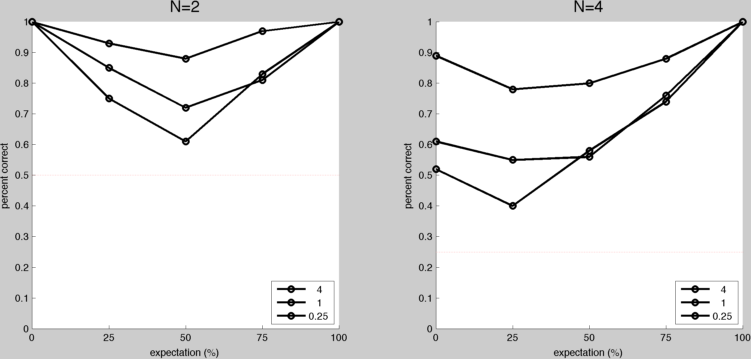
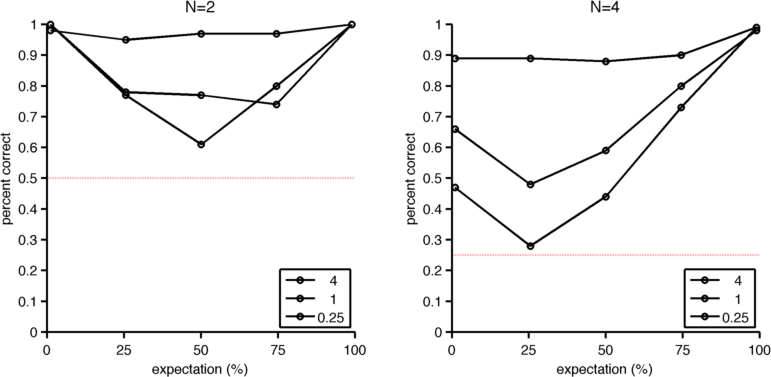
reformulated cued localisation model

diff --git a/code/MCMCcuedLocalisation.m b/code/MCMCcuedLocalisation.m
@@ -20,7 +20,7 @@ params.uniformdist      = ones(N,1)./N; % uniform distribution
 % params.dirchprior = ones(N,1);
 
 % for generating the data, we specify the distribution from which L is sampled from
-params.pdist			= ones(N,1)./N; 
+%params.pdist			= ones(N,1)./N;
 % create uninformative prior for dirichlet distribution
 % params.dirchprior 		= ones(N,1);
 
@@ -32,22 +32,22 @@ params.pdist			= ones(N,1)./N;
 
 % Set initial values for latent variable in each chain
 for i=1:mcmcparams.generate.nchains
-	%initial_param(i).L			= randi(params.N);
-	
-		% The guess initial parameter value for L cannot equal a location who's
-	% spatial prior is equal to zero, otherwise we get an error message
-	% from JAGS.
-
-	initial_param(i).L = round( ( rand*(N-1)) +1);
-	
-% 	done=0;
-%  	while done~=1
-% 		tempLocation = round( ( rand*(N-1)) +1);
-%  		if params.v(tempLocation) ~=0
-%  			initial_param(i).L = tempLocation;
-%  			done=1;
-% 		end	
-%  	end
+    %initial_param(i).L			= randi(params.N);
+    
+    % The guess initial parameter value for L cannot equal a location who's
+    % spatial prior is equal to zero, otherwise we get an error message
+    % from JAGS.
+    
+    initial_param(i).L = round( ( rand*(N-1)) +1);
+    
+    % 	done=0;
+    %  	while done~=1
+    % 		tempLocation = round( ( rand*(N-1)) +1);
+    %  		if params.v(tempLocation) ~=0
+    %  			initial_param(i).L = tempLocation;
+    %  			done=1;
+    % 		end
+    %  	end
 end
 
 %%
@@ -55,20 +55,20 @@ end
 %fprintf( 'Running JAGS...\n' );
 %tic
 [dataset, stats, structArray] = matjags( ...
-    params, ...                 
-    fullfile(pwd, JAGSmodel), ...   
-    initial_param, ...                     
-    'doparallel' , mcmcparams.doparallel, ...      
-    'nchains', mcmcparams.generate.nchains,...              
-    'nburnin', mcmcparams.generate.nburnin,...             
-    'nsamples', mcmcparams.generate.nsamples, ...           
-    'thin', 1, ...                      
-    'monitorparams', {'c','L','x','pdist'}, ...    
-    'savejagsoutput' , 0 , ...   
-    'verbosity' , 0 , ...              
+    params, ...
+    fullfile(pwd, JAGSmodel), ...
+    initial_param, ...
+    'doparallel' , mcmcparams.doparallel, ...
+    'nchains', mcmcparams.generate.nchains,...
+    'nburnin', mcmcparams.generate.nburnin,...
+    'nsamples', mcmcparams.generate.nsamples, ...
+    'thin', 1, ...
+    'monitorparams', {'c','L','x'}, ...
+    'savejagsoutput' , 0 , ...
+    'verbosity' , 0 , ...
     'cleanup' , 1 ,...
     'rndseed',1,...
-	'dic',0);                    
+    'dic',0);
 
 
 clear initial_param
@@ -89,13 +89,13 @@ true_location = squeeze(dataset.L);
 %% STEP 2: INFER THE TRIAL TYPE GIVEN THE SENSORY OBSERVATIONS
 % Now do inference on ALL the generated data
 
-% now we MAY OR MAY NOT want to remove knowledge that L is sampled from a uniform distribution over each location (pdist=[1/N ... 1/N]) 
+% now we MAY OR MAY NOT want to remove knowledge that L is sampled from a uniform distribution over each location (pdist=[1/N ... 1/N])
 %params = rmfield(params, 'pdist')
 
 %%
 % update some of the parameters
 params.x		= squeeze(dataset.x)';
-params.T		= TRIALS; 
+params.T		= TRIALS;
 params.c		= squeeze(dataset.c)';
 
 %%
@@ -108,64 +108,73 @@ params.c		= squeeze(dataset.c)';
 % for i=1:mcmcparams.infer.nchains
 % 	initial_param(i).L			= randi(params.N, TRIALS,1);
 % end
-for i=1:mcmcparams.infer.nchains
-	%initial_param(i).L			= randi(params.N, TRIALS,1);
-	for t=1:TRIALS
-		
-		%initial_param(i).L(t) = round( ( rand*(N-1)) +1);
-		
-		% We need the initial parameter guess for L to NOT be in a location
-		% where the target cannot be. For example, if the cue validity is
-		% zero and the cue is observed in location 1, then we need the
-		% initial guess of L to be anything other than 1.
-		
-		% L
-		done=0;
-		while done~=1
-			% calculate cue distribution
-			cue_dist=ones(N,1)* (1-cue_validity)/(N-1);
-			cue_dist(params.c(t)) = cue_validity;
-			
-			tempLocation = round( (rand*(params.N-1)) +1);
-			if cue_dist(tempLocation) ~=0
-				initial_param(i).L(t) = tempLocation;
-				done=1;
-			end
-		end
-% 		
-% 		% c
-% 		done=0;
-% 		while done~=1
-% 			tempLocation = round( (rand*(params.N-1)) +1);
-% 			if params.pdist(tempLocation) ~=1
-% 				initial_param(i).c(t) = tempLocation;
-% 				done=1;
-% 			end
-% 		end
-		
-		%initial_param(i).L(t) = round( (rand*(params.N-1)) +1);
 
-	end
+for i=1:mcmcparams.infer.nchains
+    initial_param(i).L			= randi(params.N, TRIALS,1);
 end
+    
+% for i=1:mcmcparams.infer.nchains
+%     initial_param(i)=0;
+%     %initial_param(i).L			= randi(params.N, TRIALS,1);
+% %     for t=1:TRIALS
+% %         for n=1:N
+% %             initial_param(i).x(n,t) = [];
+% %         end
+% %         
+% %         % 		%initial_param(i).L(t) = round( ( rand*(N-1)) +1);
+% %         %
+% %         % 		% We need the initial parameter guess for L to NOT be in a location
+% %         % 		% where the target cannot be. For example, if the cue validity is
+% %         % 		% zero and the cue is observed in location 1, then we need the
+% %         % 		% initial guess of L to be anything other than 1.
+% %         %
+% %         % 		% L
+% %         % 		done=0;
+% %         % 		while done~=1
+% %         % % 			% calculate cue distribution
+% %         % % 			cue_dist=ones(N,1)* (1-cue_validity)/(N-1);
+% %         % % 			cue_dist(params.c(t)) = cue_validity;
+% %         %
+% %         % 			tempLocation = round( (rand*(params.N-1)) +1);
+% %         % 			if cue_dist(tempLocation) ~=0
+% %         % 				initial_param(i).L(t) = tempLocation;
+% %         % 				done=1;
+% %         % 			end
+% %         % 		end
+% %         % %
+% %         % % 		% c
+% %         % % 		done=0;
+% %         % % 		while done~=1
+% %         % % 			tempLocation = round( (rand*(params.N-1)) +1);
+% %         % % 			if params.pdist(tempLocation) ~=1
+% %         % % 				initial_param(i).c(t) = tempLocation;
+% %         % % 				done=1;
+% %         % % 			end
+% %         % % 		end
+% %         %
+% %         % 		%initial_param(i).L(t) = round( (rand*(params.N-1)) +1);
+% %         
+% %     end
+% end
 
 %%
 % Calling JAGS to sample
 %fprintf( 'Running JAGS...\n' );
 %tic
 [samples, stats, structArray] = matjags( ...
-    params, ...                       
-    fullfile(pwd, JAGSmodel), ...    
-    initial_param, ...                          
-    'doparallel' , mcmcparams.doparallel, ...      
-    'nchains', mcmcparams.infer.nchains,...             
-    'nburnin', mcmcparams.infer.nburnin,...             
-    'nsamples', mcmcparams.infer.nsamples, ...           
-    'thin', 1, ...                      
-    'monitorparams', {'L','pdist'}, ...  
-    'savejagsoutput' , 0 , ... 
-    'verbosity' , 0 , ... 
+    params, ...
+    fullfile(pwd, JAGSmodel), ...
+    initial_param, ...
+    'doparallel' , mcmcparams.doparallel, ...
+    'nchains', mcmcparams.infer.nchains,...
+    'nburnin', mcmcparams.infer.nburnin,...
+    'nsamples', mcmcparams.infer.nsamples, ...
+    'thin', 1, ...
+    'monitorparams', {'L',}, ...
+    'savejagsoutput' , 0 , ...
+    'verbosity' , 0 , ...
     'cleanup' , 1 ,...
-    'rndseed',1); 
+    'rndseed',1);
 %min_sec(toc);
 
 
@@ -174,7 +183,7 @@ end
 % (proportion correct, |PC|).
 
 for t=1:TRIALS
-	L(t)		= mode( vec(samples.L(:,:,t)) );
+    L(t)		= mode( vec(samples.L(:,:,t)) );
 end
 
 % Examine the performance of the optimal observer

diff --git a/code/SCRIPTcuedLocalisation.m b/code/SCRIPTcuedLocalisation.m
@@ -29,7 +29,7 @@ T1=clock;
 switch run_type
     case{'testing'}
         TRIALS				= 100; % number of trials to simulate it any one run
-        cue_validity_list	= linspace(0,1,5);
+        cue_validity_list	= linspace(0.01,1-0.01,5);
         variance_list		= 1./[4  1  0.25];
         
     case{'publication'}
